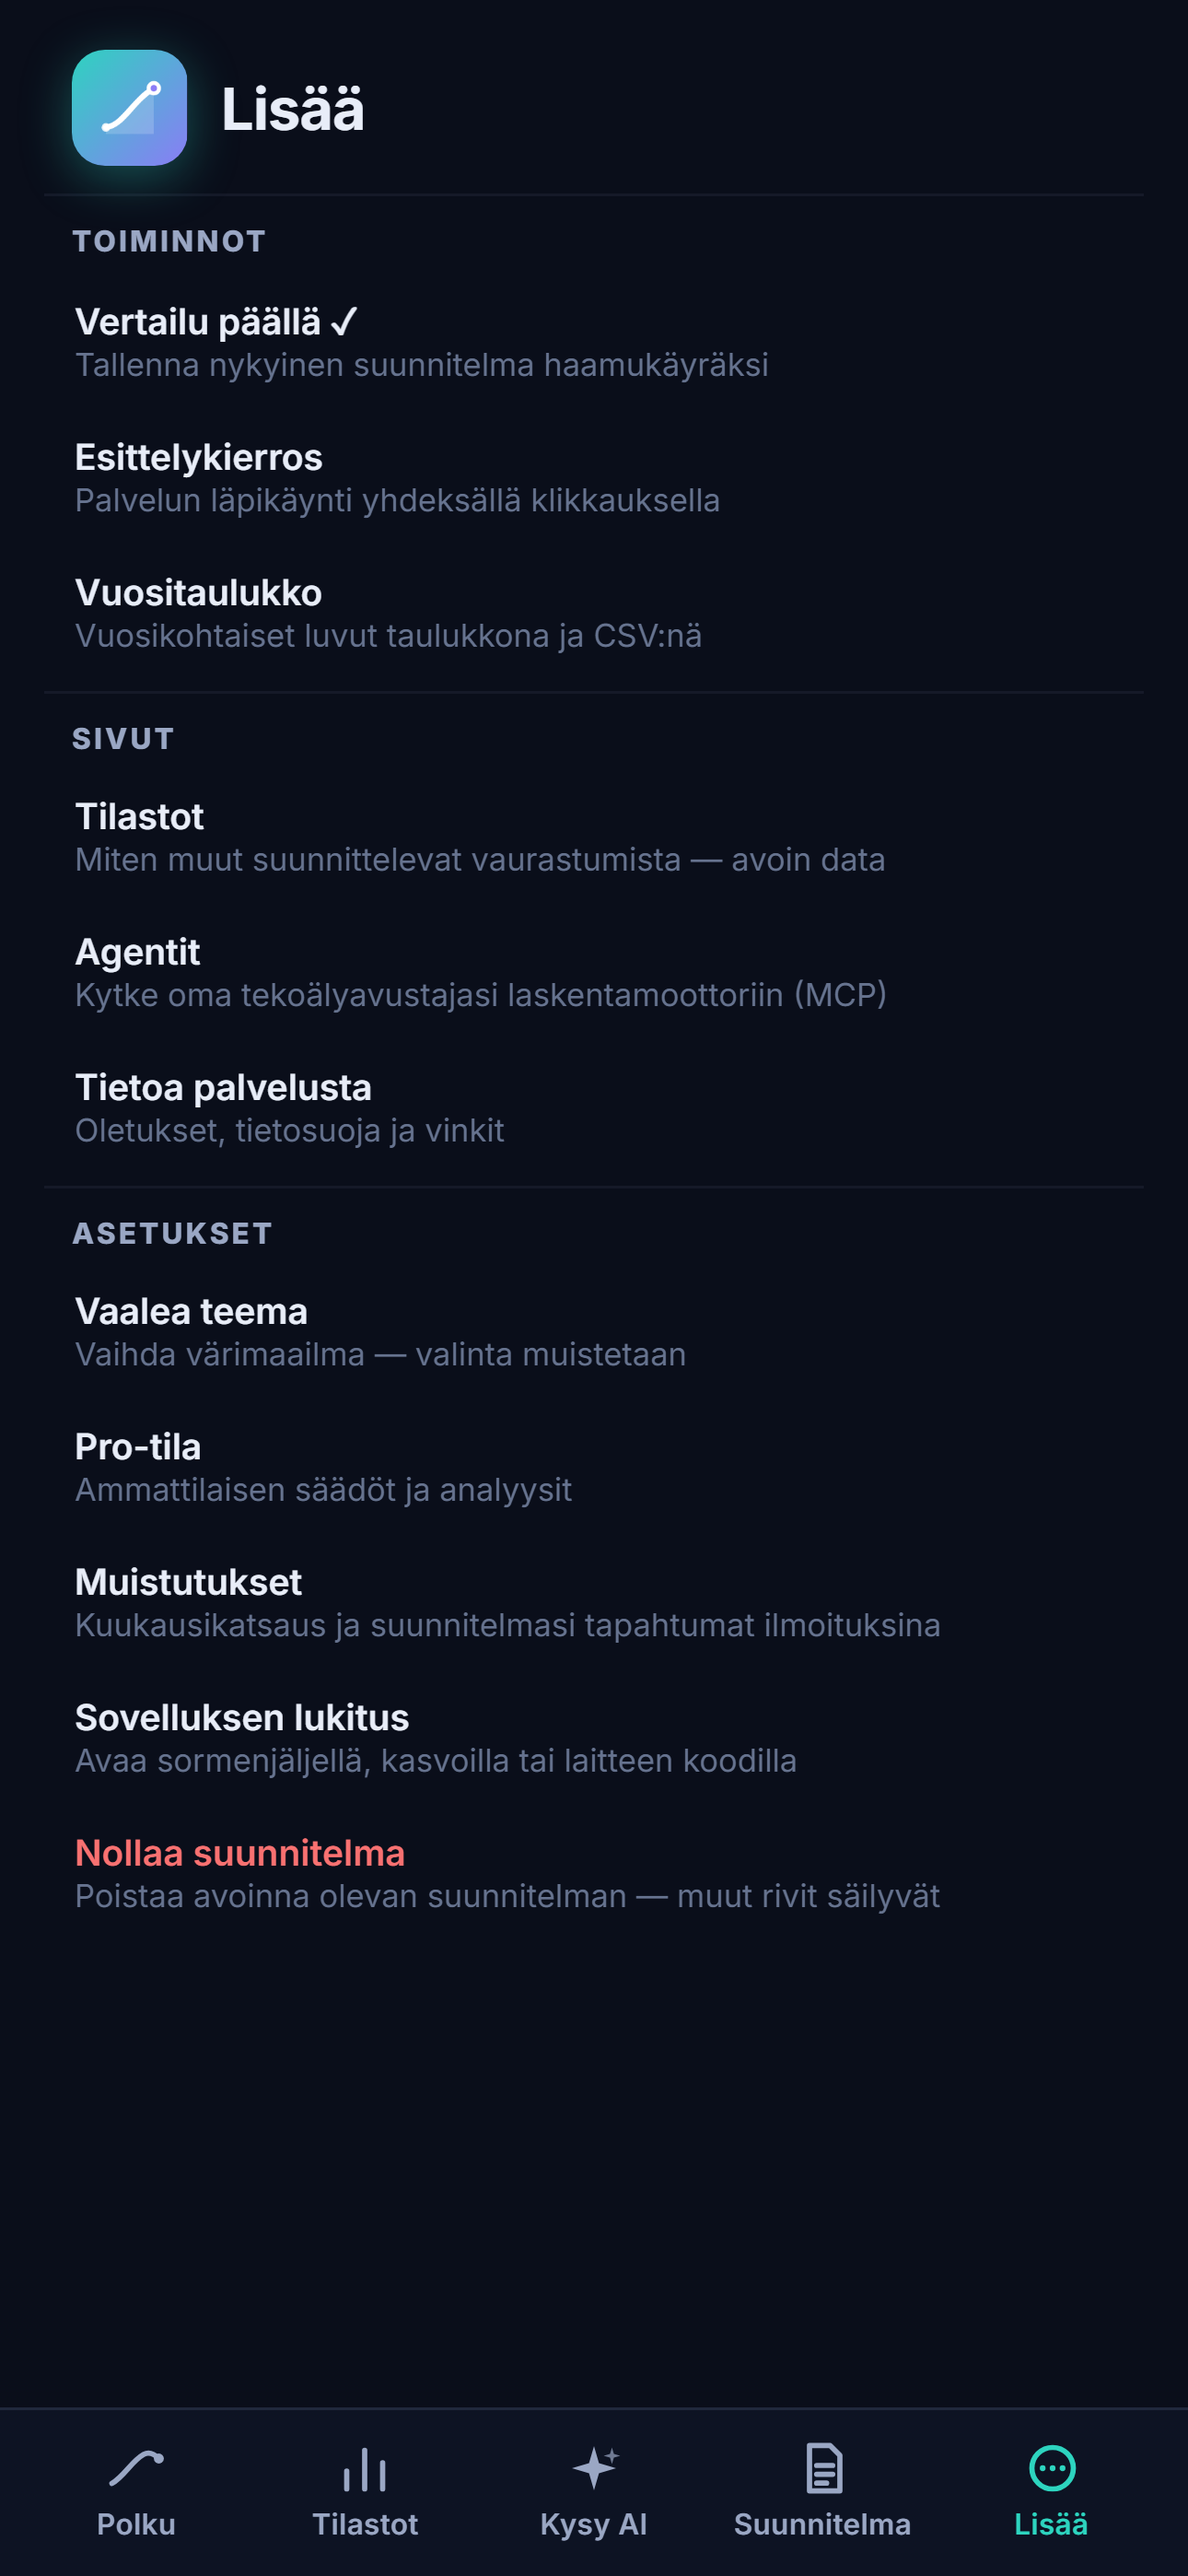
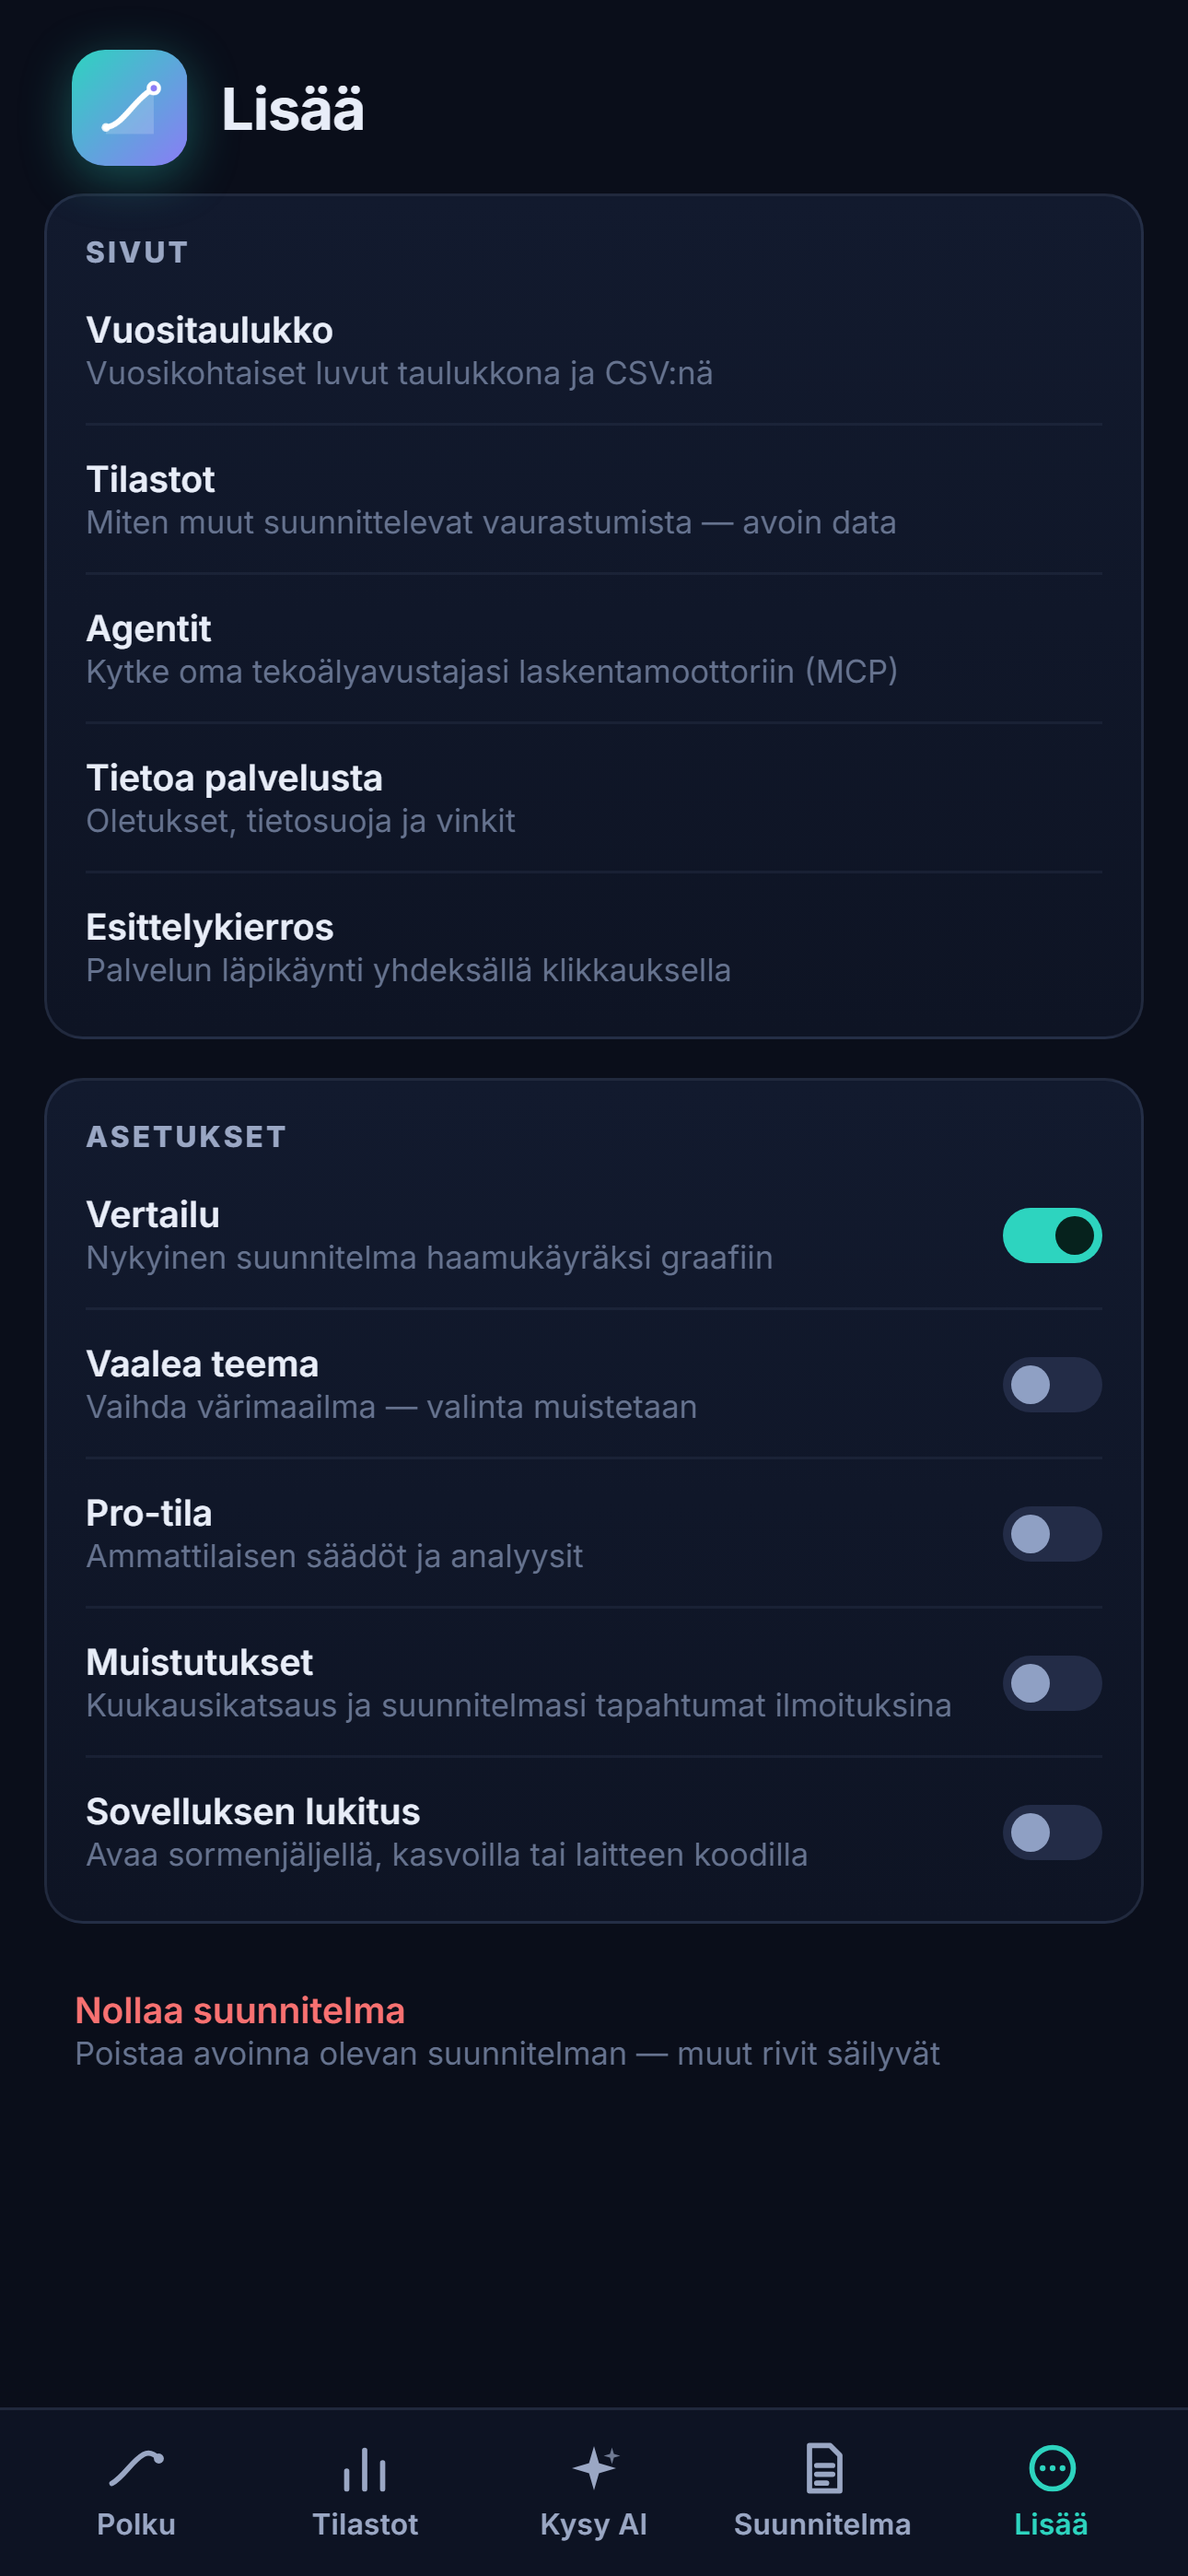
Lisää-sivun kaksijako (Olavin jäsennys): SIVUT (Vuositaulukko, Tilastot, Agentit, Tietoa, Esittelykierros) + ASETUKSET kytkinriveinä samalla switch-komponentilla kuin Polku-sivun säädöt — Vertailu, Vaalea teema, Pro-tila, Muistutukset ja Lukitus ovat kaikki aidosti on/off-tiloja; kytkennät eivät sul

diff --git a/alapalkki.js b/alapalkki.js
@@ -110,6 +110,17 @@
        tieto valikon Tietoa-sivulla); Pro-kytkin on valikon Asetuksissa */
     'body.vp-has-tabbar .card[data-card=about]{display:none;}',
     'body.vp-has-tabbar .pro-switch{display:none;}',
+    /* Lisää-sivun ryhmäkortit: Sivut ja Asetukset erottuvat kokonaisuuksina
+       (Olavin havainto 8.8.) — kortti, sisäiset erotinviivat, kytkinrivit */
+    'body.vp-has-tabbar .menu .vp-ryhma{background:linear-gradient(180deg,var(--card,#111a2e),var(--bg-2,#0e1424));',
+    ' border:1px solid var(--border,rgba(148,168,220,0.14));border-radius:14px;padding:4px 14px 6px;margin:0 0 14px;}',
+    'body.vp-has-tabbar .menu .vp-ryhma .msect{border-top:0;margin:0;padding:10px 0 2px;}',
+    'body.vp-has-tabbar .menu .vp-ryhma button{padding:11px 0;}',
+    'body.vp-has-tabbar .menu .vp-ryhma button+button{border-top:1px solid var(--border-soft,rgba(148,168,220,0.08));border-radius:0;}',
+    'body.vp-has-tabbar .menu .vp-kytkinrivi{display:flex;align-items:center;justify-content:space-between;gap:14px;width:100%;text-align:left;}',
+    'body.vp-has-tabbar .menu .vp-kr{min-width:0;}',
+    'body.vp-has-tabbar .menu .vp-kr-sw{margin:0;flex:none;}',
+    'body.vp-has-tabbar .menu>#mi-reset{margin-top:2px;}',
     /* yhtenäinen sivuilme (Olavin toive 7.8.): logo + otsikko myös sisäsivuilla —
        sama koko ja muoto kuin yläpalkin brand-markissa (42 px, kulmat 12 px).
        Tulkki pitää oman ✦-symbolinsa (Olavin linjaus). */
@@ -252,11 +263,20 @@
     otsikko.className = 'vp-sivuotsikko';
     otsikko.textContent = 'Lisää';
     menu.appendChild(otsikko);
-    var sect = function (label) {
+
+    /* Kaksijako (Olavin jäsennys 8.8.): SIVUT = navigointi, ASETUKSET =
+       on/off-tilat kytkiminä (sama switch kuin Polku-sivun säädöissä).
+       Ryhmät korttitaustoilla, jotta kokonaisuudet erottuvat. */
+    var ryhmaEl = null;
+    var ryhma = function (label) {
+      var r = document.createElement('div');
+      r.className = 'vp-ryhma';
       var s = document.createElement('div');
       s.className = 'msect';
       s.textContent = label;
-      menu.appendChild(s);
+      r.appendChild(s);
+      menu.appendChild(r);
+      ryhmaEl = r;
     };
     var add = function (id, name, desc, fn, o) {
       var b = document.createElement('button');
@@ -268,34 +288,60 @@
         suljeSheet();
         if (fn) fn(b);
       });
-      menu.appendChild(b);
+      (ryhmaEl || menu).appendChild(b);
+      return b;
+    };
+    // Kytkinrivi: napautus ei sulje sivua — tila näkyy heti switchissä.
+    // toggleFn saa paivita-callbackin, jota myös asynkroniset kytkennät
+    // (ilmoituslupa, Face ID) kutsuvat kun tila on ratkennut.
+    var kytkin = function (id, name, desc, tilaFn, toggleFn) {
+      var b = document.createElement('button');
+      b.id = id;
+      b.className = 'vp-kytkinrivi';
+      b.innerHTML = '<div class="vp-kr"><div>' + name + '</div><div class="mdesc">' + desc + '</div></div>' +
+        '<span class="toggle vp-kr-sw"><input type="checkbox" tabindex="-1" aria-hidden="true"><span class="switch"></span></span>';
+      var input = b.querySelector('input');
+      var paivita = function () { input.checked = !!tilaFn(); };
+      paivita();
+      b.addEventListener('click', function () { toggleFn(paivita); });
+      (ryhmaEl || menu).appendChild(b);
       return b;
     };
 
-    sect('Toiminnot');
-    add('mi-compare',
-      (onIndex && typeof baseline !== 'undefined' && baseline) ? 'Vertailu päällä ✓' : 'Vertaile',
-      'Tallenna nykyinen suunnitelma haamukäyräksi', kotona(toimVertaile, LIPUT.vertaile));
-    add('mi-tour', 'Esittelykierros', 'Palvelun läpikäynti yhdeksällä klikkauksella',
-      kotona(function () { startTour(); }, LIPUT.kierros));
+    ryhma('Sivut');
     add('mi-taulukko', 'Vuositaulukko', 'Vuosikohtaiset luvut taulukkona ja CSV:nä',
       kotona(toimTaulukko, LIPUT.taulukko));
-
-    sect('Sivut');
     add('mi-analytics', 'Tilastot', 'Miten muut suunnittelevat vaurastumista — avoin data',
       function () { if (onStats) ylos(); else location.href = './analytiikka.html'; });
     add('mi-agents', 'Agentit', 'Kytke oma tekoälyavustajasi laskentamoottoriin (MCP)',
       function () { location.href = './agentit.html'; });
     add('mi-info', 'Tietoa palvelusta', 'Oletukset, tietosuoja ja vinkit', kotona(toimTietoa, LIPUT.tietoa));
+    add('mi-tour', 'Esittelykierros', 'Palvelun läpikäynti yhdeksällä klikkauksella',
+      kotona(function () { startTour(); }, LIPUT.kierros));
 
-    sect('Asetukset');
-    add('mi-theme',
-      document.documentElement.classList.contains('light') ? 'Tumma teema' : 'Vaalea teema',
-      'Vaihda värimaailma — valinta muistetaan', vaihdaTeema);
-    add('mi-pro',
-      (onIndex && typeof state !== 'undefined' && state.proOn) ? 'Pro-tila päällä ✓' : 'Pro-tila',
-      'Ammattilaisen säädöt ja analyysit', kotona(toimPro, LIPUT.pro));
-    if (window.vpNativeMenu) window.vpNativeMenu(add); // muistutukset + lukitus
+    ryhma('Asetukset');
+    kytkin('mi-compare', 'Vertailu', 'Nykyinen suunnitelma haamukäyräksi graafiin',
+      function () { return onIndex && typeof baseline !== 'undefined' && !!baseline; },
+      function (paivita) {
+        if (!onIndex) { etusivulle(LIPUT.vertaile); return; }
+        toimVertaile();
+        paivita();
+      });
+    kytkin('mi-theme', 'Vaalea teema', 'Vaihda värimaailma — valinta muistetaan',
+      function () { return document.documentElement.classList.contains('light'); },
+      function (paivita) { vaihdaTeema(); paivita(); });
+    kytkin('mi-pro', 'Pro-tila', 'Ammattilaisen säädöt ja analyysit',
+      function () { return onIndex && typeof state !== 'undefined' && !!state.proOn; },
+      function (paivita) {
+        if (!onIndex) { etusivulle(LIPUT.pro); return; }
+        // ensimmäinen kytkentä kulkee esittelysivun kautta kuten webissäkin
+        if (!state.proOn && !proSeen()) { suljeSheet(); openProModal(); return; }
+        setPro(!state.proOn);
+        paivita();
+      });
+    if (window.vpNativeMenu) window.vpNativeMenu(add, kytkin); // muistutukset + lukitus
+
+    ryhmaEl = null; // nollaus omana rivinään ryhmien alla
 
     // Nollaus: kaksivaiheinen vahvistus sheetissä. Tilastot-sivulta siirrytään
     // etusivulle sheet auki — tuhoavaa toimintoa ei ajeta lipun kautta.

diff --git a/natiivilisat.js b/natiivilisat.js
@@ -92,8 +92,9 @@
     }).catch(function () { /* ilmoitusvirhe ei saa kaataa sovellusta */ });
   }
 
-  function toggleMuistutukset() {
-    if (!LN) { ilmoita('Ilmoitukset eivät ole käytettävissä tässä versiossa'); return; }
+  function toggleMuistutukset(valmis) {
+    var done = function () { if (valmis) valmis(); };
+    if (!LN) { ilmoita('Ilmoitukset eivät ole käytettävissä tässä versiossa'); done(); return; }
     if (paalla(MUISTUTUS_KEY)) {
       aseta(MUISTUTUS_KEY, false);
       LN.getPending().then(function (res) {
@@ -101,17 +102,20 @@
         if (pend.length) LN.cancel({ notifications: pend.map(function (n) { return { id: n.id }; }) });
       }).catch(function () {});
       ilmoita('Muistutukset pois päältä');
+      done();
       return;
     }
     LN.requestPermissions().then(function (perm) {
       if (perm.display !== 'granted') {
         ilmoita('Ilmoituslupa puuttuu — salli ilmoitukset laitteen asetuksista');
+        done();
         return;
       }
       aseta(MUISTUTUS_KEY, true);
       ajastaMuistutukset();
       ilmoita('Muistutukset päällä — kuukausikatsaus ja suunnitelmasi tapahtumat');
-    }).catch(function () { ilmoita('Ilmoituslupaa ei saatu'); });
+      done();
+    }).catch(function () { ilmoita('Ilmoituslupaa ei saatu'); done(); });
   }
 
   /* ===================== Logoruutu ja sovelluksen lukitus ===================== */
@@ -185,16 +189,19 @@
     }).then(piilotaLukko).catch(function () { /* peruttu → peite jää, Avaa yrittää uudelleen */ });
   }
 
-  function toggleLukitus() {
-    if (!NB) { ilmoita('Lukitus ei ole käytettävissä tässä versiossa'); return; }
+  function toggleLukitus(valmis) {
+    var done = function () { if (valmis) valmis(); };
+    if (!NB) { ilmoita('Lukitus ei ole käytettävissä tässä versiossa'); done(); return; }
     if (paalla(LUKITUS_KEY)) {
       aseta(LUKITUS_KEY, false);
       ilmoita('Lukitus pois päältä');
+      done();
       return;
     }
     NB.isAvailable({ useFallback: true }).then(function (r) {
       if (!r || !r.isAvailable) {
         ilmoita('Laitteessa ei ole käytettävissä olevaa lukitustapaa');
+        done();
         return;
       }
       return NB.verifyIdentity({
@@ -204,8 +211,9 @@
       }).then(function () {
         aseta(LUKITUS_KEY, true);
         ilmoita('Lukitus päällä — appi vaatii avauksen jatkossa');
-      }).catch(function () { ilmoita('Tunnistautuminen peruttiin'); });
-    }).catch(function () { ilmoita('Lukitustavan tarkistus epäonnistui'); });
+        done();
+      }).catch(function () { ilmoita('Tunnistautuminen peruttiin'); done(); });
+    }).catch(function () { ilmoita('Lukitustavan tarkistus epäonnistui'); done(); });
   }
 
   /* ===================== Widget-silta ===================== */
@@ -244,17 +252,28 @@
   /* ===================== Valikkorivit (☰) ===================== */
   // sovellus.js kutsuu tätä openMoreMenu:n lopussa — rivit näkyvät vain appissa.
 
-  window.vpNativeMenu = function (add) {
+  window.vpNativeMenu = function (add, kytkin) {
+    if (kytkin) {
+      // Lisää-sivun kytkinrivit: tila näkyy switchissä, asynkroniset kytkennät
+      // (ilmoituslupa, Face ID) päivittävät sen valmis-callbackilla
+      kytkin('mi-muistutukset', 'Muistutukset', 'Kuukausikatsaus ja suunnitelmasi tapahtumat ilmoituksina',
+        function () { return paalla(MUISTUTUS_KEY); },
+        function (paivita) { toggleMuistutukset(paivita); });
+      kytkin('mi-lukitus', 'Sovelluksen lukitus', 'Avaa sormenjäljellä, kasvoilla tai laitteen koodilla',
+        function () { return paalla(LUKITUS_KEY); },
+        function (paivita) { toggleLukitus(paivita); });
+      return;
+    }
     var mOn = paalla(MUISTUTUS_KEY);
     add('mi-muistutukset',
       mOn ? 'Muistutukset päällä ✓' : 'Muistutukset',
       mOn ? 'Poista ilmoitukset käytöstä' : 'Kuukausikatsaus ja suunnitelmasi tapahtumat ilmoituksina',
-      toggleMuistutukset);
+      function () { toggleMuistutukset(); });
     var lOn = paalla(LUKITUS_KEY);
     add('mi-lukitus',
       lOn ? 'Lukitus päällä ✓' : 'Sovelluksen lukitus',
       lOn ? 'Poista lukitus käytöstä' : 'Avaa sormenjäljellä, kasvoilla tai laitteen koodilla',
-      toggleLukitus);
+      function () { toggleLukitus(); });
   };
 
   /* ===================== Elinkaari ===================== */

diff --git a/testit/selain/verify-natiivilisat.js b/testit/selain/verify-natiivilisat.js
@@ -85,14 +85,13 @@ server.listen(8134, async () => {
   ok(tapahtumat.length >= 1, 'suunnitelman tapahtumia ajastettu (' + tapahtumat.length + ' kpl)');
   ok(tapahtumat.every((n) => n.schedule && n.schedule.at && new Date(n.schedule.at) > new Date()), 'tapahtumamuistutukset tulevaisuudessa');
   ok(tapahtumat.every((n) => n.title && n.title.length > 0), 'tapahtumilla otsikko (evLabel)');
-  // uusi avaus näyttää tilan ja pois-kytkentä peruu ajastukset
-  await pg.click('.vp-tab:nth-child(5)');
-  await pg.waitForTimeout(300);
-  ok(await pg.textContent('#mi-muistutukset').then((t) => t.includes('päällä ✓')), 'valikkorivi näyttää tilan');
+  // kytkinrivi näyttää tilan heti eikä sivu sulkeudu — pois-kytkentä samasta rivistä
+  ok(await pg.evaluate(() => document.querySelector('#mi-muistutukset input').checked), 'kytkin näyttää tilan (päällä)');
   await pg.click('#mi-muistutukset');
   await pg.waitForTimeout(500);
   ok(await pg.evaluate(() => localStorage.getItem('vp-muistutukset')) === null, 'muistutukset pois: avain poistettu');
   ok(await pg.evaluate(() => window.__lnCancel.length) >= 1, 'odottavat ilmoitukset peruttiin');
+  ok(await pg.evaluate(() => !document.querySelector('#mi-muistutukset input').checked), 'kytkin päivittyi pois-tilaan');
 
   // 2) Widget-silta: tiivistelmä Preferencesiin
   await pg.evaluate(() => window.vpNatiivi.widgetPaivita());
@@ -147,6 +146,7 @@ server.listen(8134, async () => {
   await pg.waitForTimeout(500);
   ok(await pg.evaluate(() => localStorage.getItem('vp-lukitus')) === '1', 'lukitus päälle tunnistuksen jälkeen');
   ok(await pg.evaluate(() => window.__bio.length) >= 1, 'käyttöönotto vahvistettiin tunnistuksella');
+  ok(await pg.evaluate(() => document.querySelector('#mi-lukitus input').checked), 'lukituskytkin päivittyi tunnistuksen jälkeen');
   await ctx.close();
 
   // 7) Lukitus toimii myös Tilastot-sivulla
@@ -204,6 +204,9 @@ server.listen(8134, async () => {
   await pg.waitForTimeout(300);
   ok(await pg.locator('#mi-pro').count() === 1, 'Pro-kytkin valikossa appissa');
   ok(await pg.locator('#mi-taulukko').count() === 1, 'Vuositaulukko valikossa appissa');
+  // kaksijako: Sivut + Asetukset ryhmäkortteina, asetukset kytkiminä
+  ok(await pg.evaluate(() => [...document.querySelectorAll('.menu .vp-ryhma .msect')].map((s) => s.textContent).join(',')) === 'Sivut,Asetukset', 'ryhmät: Sivut + Asetukset');
+  ok(await pg.locator('.menu .vp-kytkinrivi').count() === 5, 'viisi kytkinriviä (vertailu, teema, pro, muistutukset, lukitus)');
   const sheetR = await pg.evaluate(() => {
     const r = document.querySelector('.menu').getBoundingClientRect();
     return {

diff --git a/sw.js b/sw.js
@@ -5,7 +5,7 @@
    välimuistista. Näin julkaisut päivittyvät heti kun verkko on käytössä,
    mutta sovellus toimii myös kokonaan ilman yhteyttä. */
 
-const CACHE = 'varallisuuspolku-v43'; // bump isoissa julkaisuissa: asennuserä pysyy eheänä parina
+const CACHE = 'varallisuuspolku-v44'; // bump isoissa julkaisuissa: asennuserä pysyy eheänä parina
 const CORE = [
   './',
   './index.html',
